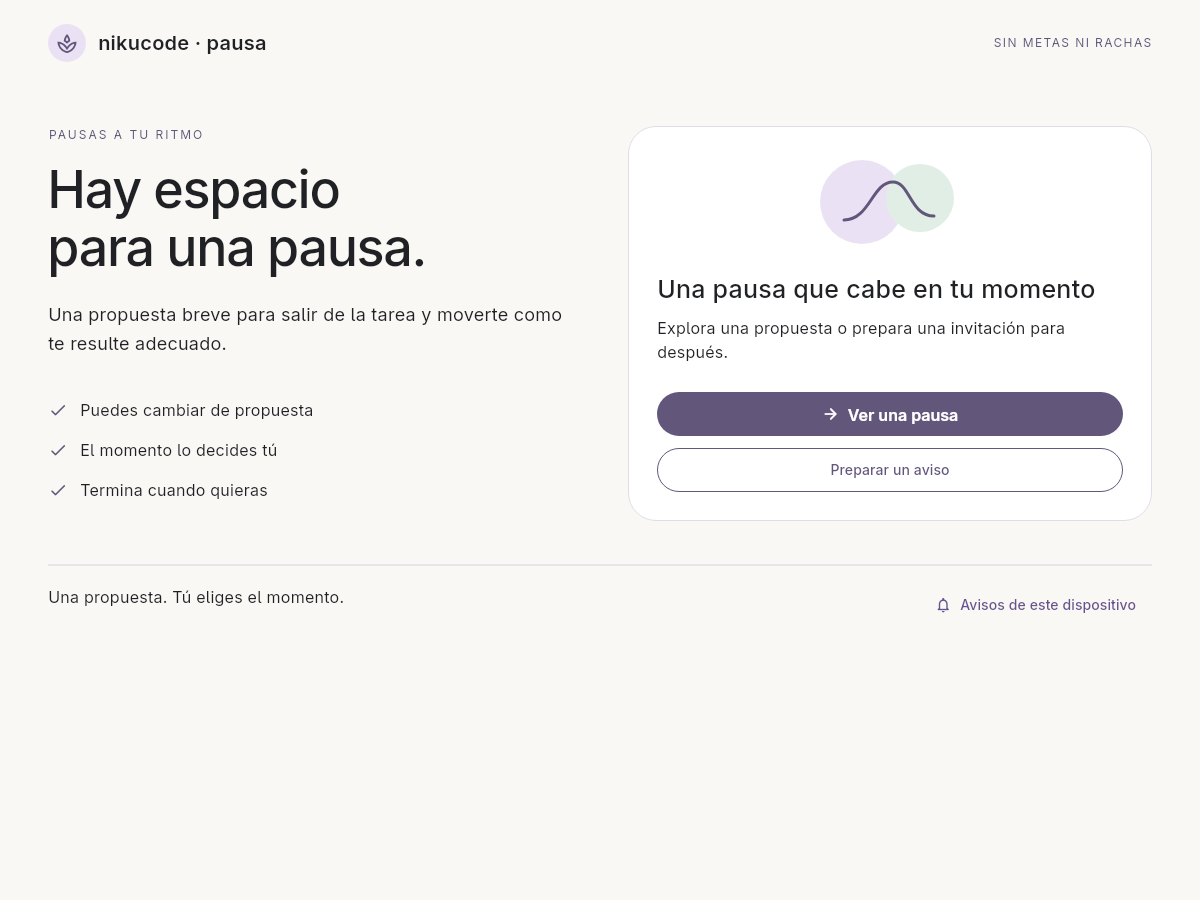
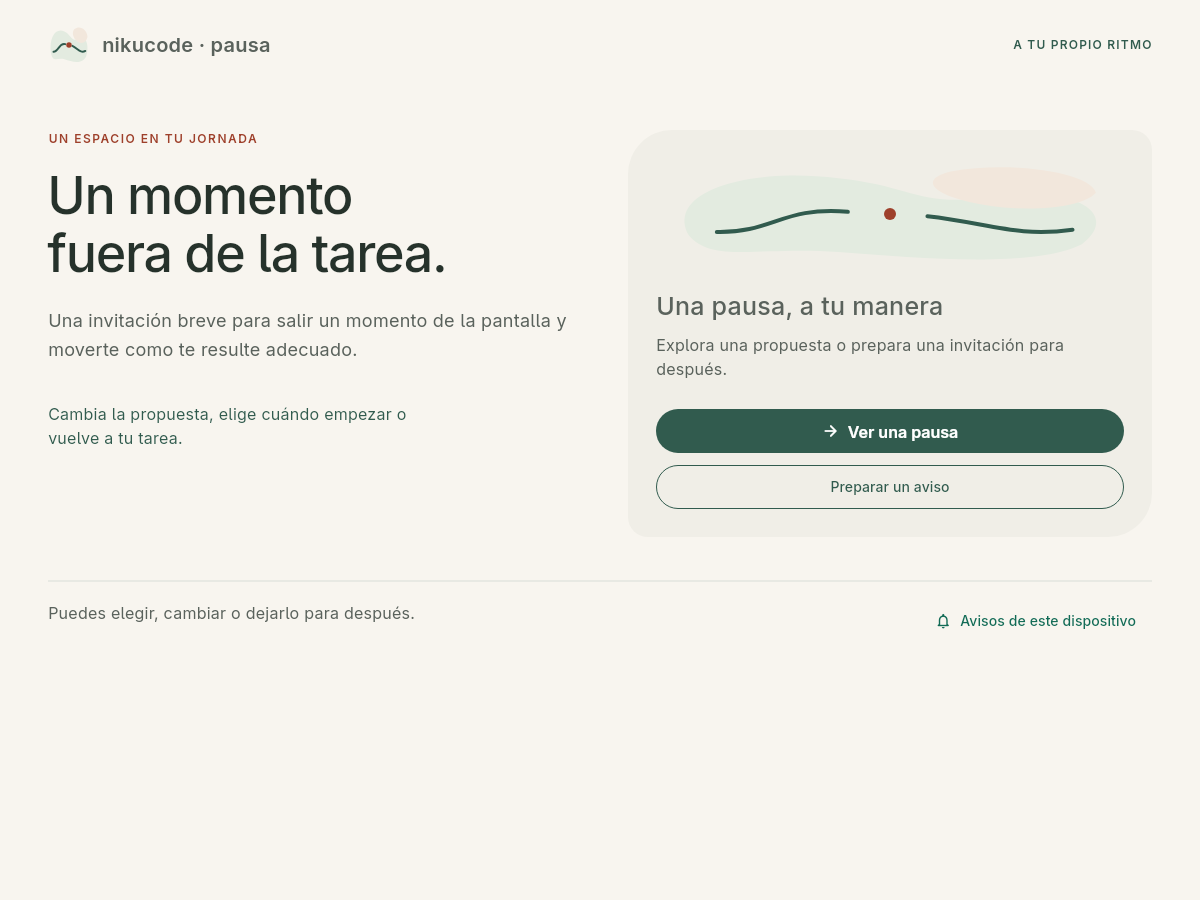
feat(ui): simplificar flujo y documentar prueba de autocompasion

diff --git a/app/lib/main.dart b/app/lib/main.dart
@@ -83,6 +83,7 @@ class PauseHome extends StatelessWidget {
         child: LayoutBuilder(
           builder: (context, constraints) {
             final wide = constraints.maxWidth >= 900;
+            final onHome = viewModel.stage == PauseStage.home;
             return SingleChildScrollView(
               padding: EdgeInsets.symmetric(
                 horizontal: wide ? 48 : 24,
@@ -147,7 +148,7 @@ class PauseHome extends StatelessWidget {
                         ],
                       ),
                       SizedBox(height: wide ? 64 : 32),
-                      if (wide)
+                      if (wide && onHome)
                         Row(
                           crossAxisAlignment: CrossAxisAlignment.start,
                           children: [
@@ -156,11 +157,19 @@ class PauseHome extends StatelessWidget {
                             Expanded(child: _PausePanel(vm: viewModel)),
                           ],
                         )
-                      else ...[
+                      else if (wide)
+                        Center(
+                          child: ConstrainedBox(
+                            constraints: const BoxConstraints(maxWidth: 720),
+                            child: _PausePanel(vm: viewModel),
+                          ),
+                        )
+                      else if (onHome) ...[
                         _Introduction(wide: wide),
                         const SizedBox(height: 28),
                         _PausePanel(vm: viewModel),
-                      ],
+                      ] else
+                        _PausePanel(vm: viewModel),
                       if (viewModel.hasPendingReminder) ...[
                         const SizedBox(height: 24),
                         Container(

diff --git a/app/tool/checkpoint_smoke.dart b/app/tool/checkpoint_smoke.dart
@@ -157,6 +157,10 @@ Future<void> main() async {
       'valid delivered action opens proposal',
     );
     check(renderedText().contains('Empezar guía'), 'proposal action rendered');
+    textScale.value = TextScaler.linear(2);
+    await capture('mobile_proposal_200_percent', const Size(390, 844));
+    textScale.value = TextScaler.noScaling;
+    await frame();
     await capture('mobile_proposal', const Size(390, 1200));
     await capture('desktop_proposal', const Size(1200, 900));
     model.changeProposal();

diff --git a/docs/INVESTIGACION_AUTOCOMPASION_Y_ACERCAMIENTO.md b/docs/INVESTIGACION_AUTOCOMPASION_Y_ACERCAMIENTO.md
@@ -1,0 +1,46 @@
+# Autocompasión y acercamiento a la propuesta
+
+**Fecha:** 23 de octubre de 2026
+
+**Estado:** revisión dirigida para orientar el mensaje y el flujo. No es una evaluación clínica, prueba de mercado ni demostración de eficacia de nikucode.
+
+## Pregunta de diseño
+
+¿Cómo invitar a una persona que estudia o trabaja muchas horas frente a una pantalla a considerar una pausa, sin convertir el dolor en requisito, usar culpa como presión ni añadir otra tarea de autocontrol?
+
+## Qué permite afirmar la evidencia
+
+- Una revisión sistemática de siete estudios concluyó que las intervenciones de autocompasión podían ser tan eficaces como otras técnicas de cambio conductual para mejorar la autorregulación de conductas de salud. La base era pequeña y heterogénea; no prueba que una frase de una app produzca pausas. [Biber & Ellis, 2019](https://pubmed.ncbi.nlm.nih.gov/28810473/).
+- Un metaanálisis de 94 artículos y 29.588 participantes encontró asociaciones positivas entre autocompasión y salud física (*r* = .18) y conductas promotoras de salud (*r* = .26). Los resultados variaron por dominio, edad y duración. Las intervenciones multisesión mostraron resultados favorables; las inducciones de una sola sesión no fueron significativas. [Phillips & Hine, 2021](https://pubmed.ncbi.nlm.nih.gov/31842689/).
+- En una muestra representativa de 654 adultos del Reino Unido, seguida durante tres mediciones en nueve meses, la autoeficacia ante barreras medió la relación longitudinal entre autocompasión inicial y actividad física posterior. Es evidencia longitudinal observacional mediante encuesta, no ensayo de una app ni prueba directa sobre interrupciones del tiempo sentado. [Zhang et al., 2025](https://pubmed.ncbi.nlm.nih.gov/39424408/).
+- Una revisión sistemática reciente sobre actividad física y autocompasión incluyó 10 estudios (6.808 participantes): siete observacionales y tres experimentales. La mayoría de los observacionales encontró asociaciones, mientras los resultados experimentales fueron mixtos. Refuerza que la relación es prometedora, pero dirección, mecanismo y causalidad requieren mejores estudios. [Hall et al., 2025](https://doi.org/10.1177/15598276231222183).
+- Un metaanálisis de intervenciones basadas en teoría de autodeterminación reunió 56 artículos y 65 pruebas aleatorizadas; halló un efecto promedio pequeño (*d* = .23) en conductas de salud, con resultados también para actividad física y conducta sedentaria. Autonomía y competencia percibida mediaron los efectos. No valida específicamente nuestro texto, pero apoya conservar elección y control como mecanismos plausibles. [Sheeran et al., 2020](https://pubmed.ncbi.nlm.nih.gov/32437175/).
+- En comunicación de salud, un metaanálisis de 26 estudios sobre apelaciones a la culpa halló un efecto persuasivo pequeño (*g* = .19), moderado por responsabilidad atribuida, controlabilidad y presencia de una conducta reparadora. Que una apelación pueda persuadir no la convierte en adecuada para nikucode: el caso describe agotamiento y una pausa que se vuelve obligación, de modo que la presión puede contradecir el problema que buscamos resolver. [Xu et al., 2023](https://pubmed.ncbi.nlm.nih.gov/37842697/).
+
+## Lectura para este producto
+
+La autocompasión puede informar **el tono**, no una función terapéutica ni una condición para recibir ayuda. En este contexto, se traduce prudentemente en reconocer que parar puede costar, evitar juzgar la respuesta, permitir una acción pequeña y conservar la libertad de no hacerla. No necesitamos que la persona admita dolor o se diagnostique para ofrecer una pausa.
+
+La sugerencia del checkpoint de preguntar por estado o dolor tiene valor como hipótesis de investigación, pero un cuestionario obligatorio antes de una pausa añadiría pasos y podría hacer parecer que la app evalúa salud. Preguntar por dolor puede también estrechar la invitación a quienes ya tienen síntomas. No se recomienda incorporarlo al flujo central del MVP. Si en una prueba se explora, debe ser opcional, no clínico, sin guardar respuesta y con una salida igualmente clara.
+
+## Decisión de diseño recomendada
+
+1. Mantener una entrada directa: **«Una pausa, a tu manera»** y **«Ver una pausa»**.
+2. Probar como variante de copy, no como afirmación validada: **«No tienes que esperar a sentir dolor para considerar una pausa»**. Contrastar con **«¿Te vendría bien una pausa ahora?»**. La segunda puede sonar más conversacional; ambas deben probarse para detectar presión, culpa o confusión.
+3. Mantener en propuesta las opciones visibles para empezar, cambiar, posponer y decir «Ahora no».
+4. Después de rechazar o detener, cerrar sin puntuación ni reproche. Evitar frases que interpreten emociones o aseguren que la persona «se lo merece» como técnica de conversión.
+5. No usar dolor, miedo a enfermar, rachas perdidas, urgencia artificial ni culpa como ganchos comerciales. Comunicar una situación reconocible y una opción concreta, sin presentar la pausa breve como tratamiento o prevención clínica.
+
+**Mensaje de presentación para el jurado:** «No queremos que alguien tenga que llegar al dolor para sentir que puede parar. Probamos una invitación concreta y opcional: puedes elegir una propuesta, cambiarla, dejarla para después o cerrar. La autocompasión informa el tono; todavía tenemos que probar si este lenguaje ayuda o añade carga».
+
+## Cómo probarlo con poco esfuerzo
+
+En pruebas breves con escenarios de estudio/trabajo ficticios, comparar versiones de texto manteniendo iguales la composición y los controles. Preguntar: «¿Qué te está ofreciendo?», «¿Qué opciones tienes si no quieres hacerlo?», «¿Cómo te hizo sentir el mensaje: acompañado, presionado, culpable, indiferente u otra cosa?» y «¿Qué palabra cambiarías?». Observar si identifica cómo rechazar sin explicación. No inferir que comprendió la propuesta porque diga que le gusta; no medir eficacia conductual con una prueba de lectura.
+
+Si se registra algo, anotar solo comprensión, elección y reacción al mensaje de quienes consientan; no pedir diagnóstico ni dolor personal. Para una investigación posterior de conducta, definir oportunidades de pausa, denominador, medidas y duración antes de recopilar datos.
+
+## Límites y decisión pendiente
+
+La literatura estudia constructos y conductas más amplios que iniciar pausas breves durante el estudio o trabajo. No demuestra que la autocompasión sea el principal obstáculo del caso del equipo, que la persona necesite un cuestionamiento para reconocerlo, que un copy cambie conducta ni que produzca retención o ingresos. La hipótesis debe competir con explicaciones más cercanas al flujo —momento, interrupción, preparación, pertinencia de la acción y coste de cambiar de tarea— en entrevistas y pruebas.
+
+**Decisión para el prototipo de hoy:** conservar el flujo actual y sus opciones de control; no agregar formulario sobre dolor ni un mensaje emocional obligatorio. Probar una línea de entrada alternativa en una evaluación rápida antes de adoptarla.

diff --git a/docs/PRIMER_RECORRIDO_Y_CHECKPOINT_2026-10-23.md b/docs/PRIMER_RECORRIDO_Y_CHECKPOINT_2026-10-23.md
@@ -6,7 +6,7 @@
 
 Inicio → propuesta → cambiar → guía → terminar/detener → volver; rechazo sin reprogramación. Dos propuestas: caminar si resulta adecuado y movimiento habitual elegido. Vistas adaptables a ancho disponible, controles etiquetados y sin animación o seguimiento obligatorio.
 
-**Actualización visual posterior:** la pantalla usa ahora fondo marfil, acentos verde musgo/terracota y una forma original de trazo interrumpido; el panel principal reemplaza la tarjeta blanca uniforme. Se mantuvo el recorrido y la jerarquía de controles. El título y la frase descriptiva se ajustaron para que la propuesta se entienda sin depender de la metáfora visual. Esta iteración pasó análisis estático de Flutter; aún falta observar el render actualizado y probar teclado, ampliación y lector de pantalla.
+**Actualización visual posterior:** la pantalla usa fondo marfil, acentos verde musgo/terracota y una forma de trazo interrumpido; el panel principal reemplaza la tarjeta blanca uniforme. En la última iteración, la introducción solo aparece en inicio; propuesta, guía y cierre muestran directamente su contenido, evitando repetir el bloque de bienvenida. El motor Flutter headless generó capturas actuales a 1200 y 390 px, incluida una propuesta con texto al 200 %. La ampliación se renderiza, pero los controles quedan más abajo y requieren desplazamiento. No se probaron gestos, teclado ni lector de pantalla.
 
 Avisos habilitados explícitamente, programación puntual en memoria, reemplazo/cancelación y generación vigente. Adaptadores Linux y navegador separados. Al toque se solicita activar ventana/pestaña y abrir propuesta; llegada sola no toma foco. Sin servicio Android nativo implementado, persistencia, background independiente del proceso, recurrencia o sincronización.
 
@@ -19,8 +19,8 @@ Avisos habilitados explícitamente, programación puntual en memoria, reemplazo/
 | Linux | Build debug compiló; lanzamiento de ventana en esta sesión falla `cannot open display: :0` |
 | Web | Build release compiló, con recursos web locales; aviso no fatal de fuente Cupertino ausente, sin fallo de compilación |
 | Runner de tests | Bloqueado antes de suites por bind127.0.0.1 no permitido. Casos de lógica/widgets escritos, no declarados pasados |
-| Motor Flutter offline | Harness ejecutado con VMservice deshabilitado: 19 comprobaciones, siete capturas y cero errores Flutter, con canal fake; [resultado](evidencia/checkpoint_smoke_result.json) |
-| Vista de escritorio/móvil | Capturas del motor a1200 y390 de ancho inspeccionadas; no equivalen a dispositivo móvil físico |
+| Motor Flutter offline | Harness ejecutado con VMservice deshabilitado: 19 comprobaciones, ocho capturas y cero errores Flutter, con canal fake; [resultado](evidencia/checkpoint_smoke_result.json) |
+| Vista de escritorio/móvil | Capturas actuales del motor a 1200 y 390 px inspeccionadas; no equivalen a dispositivo físico. La captura de propuesta al 200 % muestra que sus acciones necesitan desplazamiento. |
 | Avisos reales | No verificados: acceso a bus del escritorio bloqueado en sesión; permiso/navegador/apertura desde aviso requieren prueba del equipo |
 | Movimiento/hábito | No medidos ni inferidos de la guía |
 
@@ -30,9 +30,10 @@ Se corrigieron dos riesgos de revisión estática: activación solicitada solo t
 
 - [Inicio en escritorio](evidencia/desktop_home.png).
 - [Propuesta en tamaño móvil](evidencia/mobile_proposal.png).
-- [Vista390×844 con texto al200%](evidencia/mobile_home_200_percent.png): escala2.0 comprobada en RenderParagraph; requiere desplazamiento para llegar a acciones. No es una prueba de gesto/lector.
+- [Vista390×844 de inicio al200%](evidencia/mobile_home_200_percent.png): escala 2.0 comprobada en RenderParagraph.
+- [Propuesta390×844 al200%](evidencia/mobile_proposal_200_percent.png): texto ampliado y controles fuera de la primera vista; se necesita desplazamiento.
 
-Estas capturas pertenecen a la primera versión visual, anterior a la actualización descrita arriba; no representan la interfaz actual. Son capturas reales de render headless, no mockups ni fotografías del teléfono. El resultado JSON identifica canal simulado y transiciones dirigidas por el modelo. No se anuncian como pruebas de gestos, lector o avisos del sistema.
+Las capturas enlazadas son snapshots del render Flutter headless actual, no mockups ni fotografías de un teléfono. El resultado JSON identifica canal simulado y transiciones dirigidas por el modelo. No se anuncian como pruebas de gestos, teclado, lector o avisos del sistema.
 
 ## Reproducir la comprobación offline
 

diff --git a/docs/ESTADO_COMPARTIDO.md b/docs/ESTADO_COMPARTIDO.md
@@ -5,11 +5,11 @@ Actualización: 23 de octubre de 2026. Registro compartido para integrantes y as
 ## Estado observado
 
 - Repo público creado por el equipo: https://github.com/nikucode/nikucode-senales-2026 (enlace y pantalla aportados por Alex).
-- La rama principal local y `origin/main` apuntan a `193db7a`, que contiene la primera app Flutter. El historial público conserva los commits previos de preparación documental.
+- Al iniciar esta revisión, `main` y `origin/main` apuntaban a `b6c3318`, que incluye la primera app y la actualización visual. La iteración de interfaz descrita abajo está en cambios locales aún no publicados.
 - La fase «A construir» comenzó a las 09:45, una vez terminada la bienvenida, según el programa compartido por el equipo.
 - Primera app nueva en `app/`, con Flutter 3.47.7/Dart 3.13.5 como base inicial de implementación. Compilaron Linux debug y web. Android tiene scaffold, sin APK/canal nativo probado; dispositivos físicos aún por confirmar.
-- Recorrido/estado/render comprobados con motor Flutter headless, 19 checks, siete capturas, cero errores Flutter y canal simulado. Las suites estándar están escritas pero bloqueadas por bind local; avisos SO/gestos/lector/teléfono real no verificados. Ver [evidencia](PRIMER_RECORRIDO_Y_CHECKPOINT_2026-10-23.md).
-- Iteración visual aplicada después de esas capturas; se conservan allí como registro de la primera versión. `flutter analyze --no-pub` pasó tras el cambio. Falta generar evidencia visual nueva y revisar accesibilidad con tecnologías asistivas.
+- Recorrido/estado/render comprobados con motor Flutter headless: 19 checks, ocho capturas, cero errores Flutter y canal simulado. `flutter analyze --no-pub` pasó. Build Linux y web compilaron antes del ajuste más reciente; se volverán a compilar. La ventana Linux no pudo abrirse en esta sesión porque no hay display disponible. Gestos, lector de pantalla, avisos del SO y teléfono real siguen sin verificar. Ver [evidencia](PRIMER_RECORRIDO_Y_CHECKPOINT_2026-10-23.md).
+- En propuesta, guía y cierre se quitó la introducción repetida para llevar antes a la acción. Las capturas actuales están en `docs/evidencia/`; a 200 % de texto la propuesta requiere desplazamiento para llegar a sus controles. No es una evaluación de interacción ni certificación de accesibilidad.
 - Preparados: investigación, especificación, fuentes, aceptación, rutas técnicas, guion de checkpoint, defensa y borrador de cinco diapositivas.
 
 ## Decisiones y propuestas
@@ -24,10 +24,10 @@ Contratos: abrir propuesta consume/invalida invitación y cancela programación 
 | Tarea | Responsable | Estado | Cierre esperado |
 |---|---|---|---|
 | Repositorio y documentación inicial | Equipo | Commits `ff5ef84` y `351c267` integrados en la historia de `main` | Mantener documentación pública coherente con la implementación vigente |
-| Primera implementación | Equipo | `193db7a` presente en `main` y `origin/main`; builds y evidencia registrados | Ejecutar y probar el recorrido en los dispositivos del equipo |
+| Primera implementación e iteración de interfaz | Equipo | App en `main`; ajuste compacto local probado con 19 checks y ocho capturas | Recompilar Linux/web y revisar interacción/asistencia en equipos reales |
 | Confirmar destinos reales | Equipo | Pendiente | Stack inicial Flutter; registrar computador/teléfono sin identificadores personales |
 | Prueba de canal real | Equipo, por repartir | Pendiente | Comprobar permiso/entrega/toque/cancelación; el fake no lo sustituye |
-| Checkpoint 1 · 12:00 | Equipo | Guion preparado | Explicar problema, intentos previos y elección |
+| Checkpoint 1 · 12:00 | Equipo | Realizado; Alex informa que el checkpoint salió bien y recomienda investigar cómo acercar la propuesta a la persona | Integrar el aprendizaje sobre autocompasión sin inducir culpa ni exagerar el efecto |
 | Checkpoint 2 · 17:15 | Equipo | Base implementada, comprobación en destino pendiente | Demostrar una función central en un destino real |
 
 ## Continuidad del trabajo

diff --git a/docs/MAPA_DOCUMENTAL.md b/docs/MAPA_DOCUMENTAL.md
@@ -5,6 +5,7 @@
 - [Primera app: ejecutar, evidencia y guion de checkpoint](PRIMER_RECORRIDO_Y_CHECKPOINT_2026-10-23.md).
 - [Guía de incorporación técnica](GUIA_COLABORACION_TECNICA.md).
 - [Estado compartido](ESTADO_COMPARTIDO.md): entrada viva y tareas.
+- [Autocompasión y acercamiento](INVESTIGACION_AUTOCOMPASION_Y_ACERCAMIENTO.md): evidencia, límites y propuesta de prueba de mensajes.
 - [Guía de implementación y aceptación](GUIA_IMPLEMENTACION_Y_ACEPTACION_2026-10-23.md).
 - [Preparación técnica por destinos](PREPARACION_TECNICA_DESTINOS_2026-10-23.md).
 
